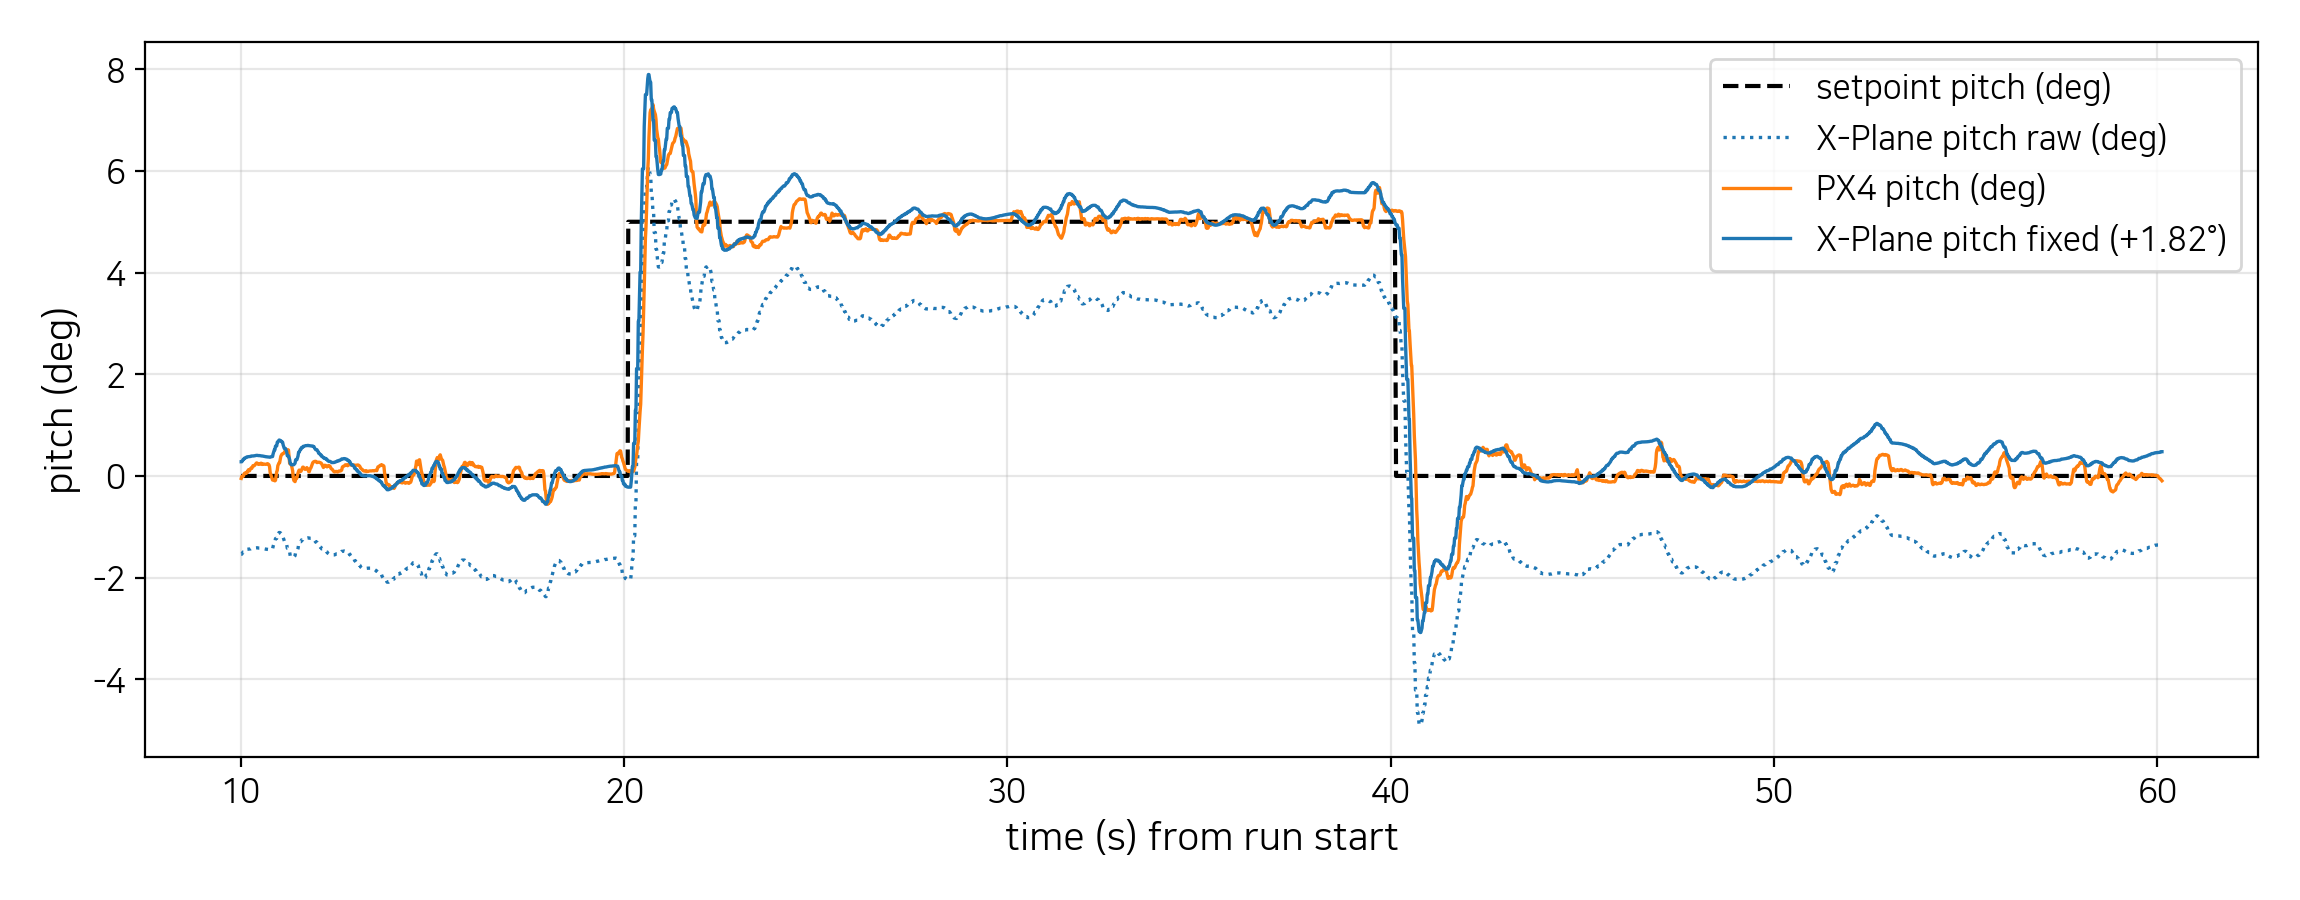
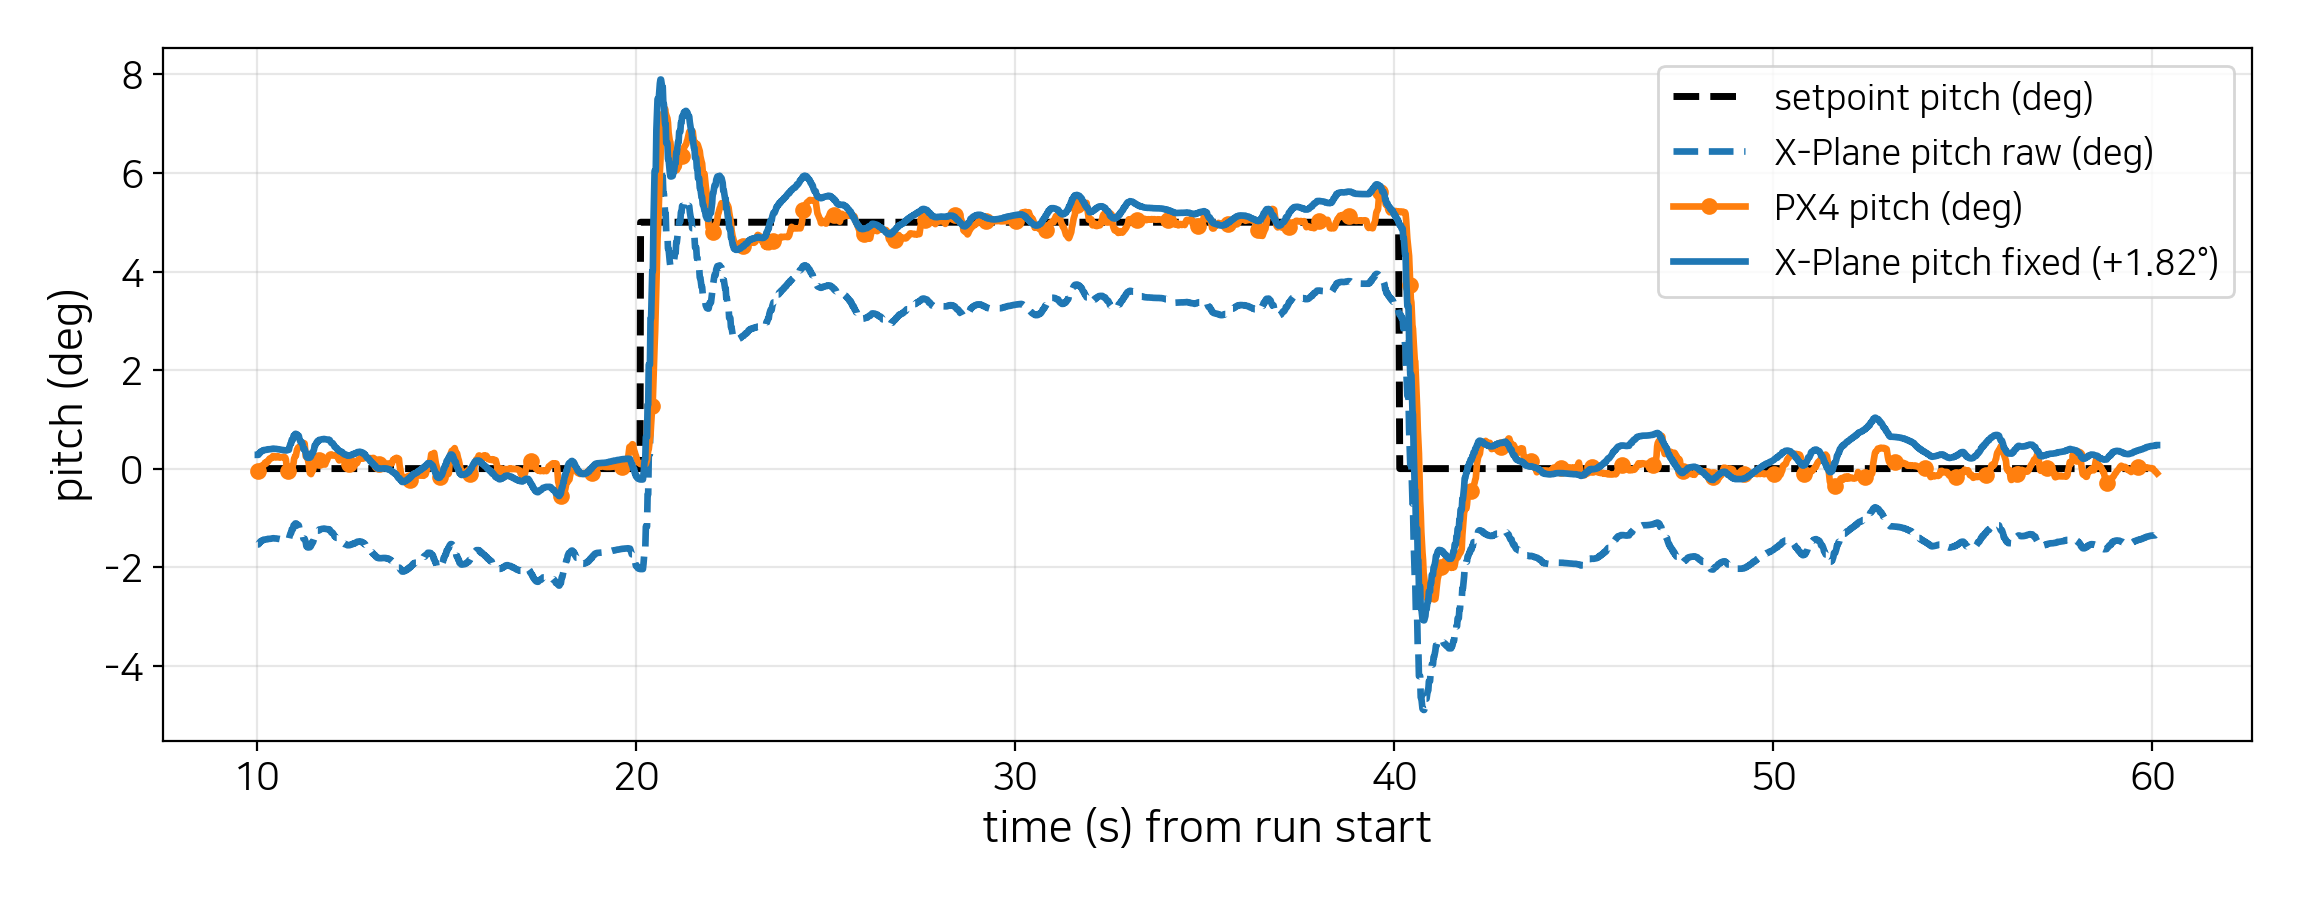
reinforce readability

Changed region(s): [[0.0, 0.0311, 0.9878, 0.9644], [0.7717, 0.5911, 0.8026, 0.6222], [0.7409, 0.6222, 0.7717, 0.6533]]

diff --git a/presentation/Fig_Gen.py b/presentation/Fig_Gen.py
@@ -62,12 +62,12 @@ def _mpl():
         "font.family": "sans-serif",
         "font.sans-serif": [FONT_NAME, "NanumSquare", "DejaVu Sans"],
         "axes.unicode_minus": False,
-        "font.size": 14,
-        "axes.labelsize": 14,
-        "axes.titlesize": 14,
-        "xtick.labelsize": 12,
-        "ytick.labelsize": 12,
-        "legend.fontsize": 12,
+        "font.size": 16,
+        "axes.labelsize": 16,
+        "axes.titlesize": 16,
+        "xtick.labelsize": 14,
+        "ytick.labelsize": 14,
+        "legend.fontsize": 13,
         "figure.dpi": DPI,
     })
     return plt
@@ -88,11 +88,12 @@ def fig2_pitch_response(run: RunData) -> Path:
         [_to_float(r.get("sp_pitch_deg")) for r in run.tick_rows], dtype=float
     )
     if np.any(np.isfinite(sp)):
-        ax.plot(t[m], sp[m], "k--", lw=1.5, label="setpoint pitch (deg)")
+        ax.plot(t[m], sp[m], "k--", lw=2.5, label="setpoint pitch (deg)")
 
-    ax.plot(t[m], run.xp_pitch[m], color="tab:blue", lw=1.2, ls=":",
+    ax.plot(t[m], run.xp_pitch[m], color="tab:blue", lw=2.4, ls="--",
             label="X-Plane pitch raw (deg)")
-    ax.plot(t[m], run.px4_pitch[m], color="tab:orange", lw=1.2,
+    ax.plot(t[m], run.px4_pitch[m], color="tab:orange", lw=2.4,
+            marker="o", markevery=40, markersize=5,
             label="PX4 pitch (deg)")
 
     pb = run.mount_bias_pitch_deg
@@ -100,7 +101,7 @@ def fig2_pitch_response(run: RunData) -> Path:
         ax.plot(
             t[m],
             _wrap_deg(run.xp_pitch + pb)[m],
-            color="tab:blue", lw=1.2,
+            color="tab:blue", lw=2.4, ls="-",
             label=f"X-Plane pitch fixed ({pb:+.2f}\u00b0)",
         )
 
@@ -124,16 +125,17 @@ def fig3_pitch_error(run: RunData) -> Path:
     m = run.analysis_mask
 
     err_raw = _wrap_deg(run.px4_pitch - run.xp_pitch)
-    ax.plot(t[m], err_raw[m], color="tab:red", lw=1.2,
+    ax.plot(t[m], err_raw[m], color="tab:red", lw=2.4,
             label="raw error (deg)")
 
     pb = run.mount_bias_pitch_deg
     if np.isfinite(pb):
         err_bc = _wrap_deg((run.px4_pitch - pb) - run.xp_pitch)
-        ax.plot(t[m], err_bc[m], color="tab:green", lw=1.2,
+        ax.plot(t[m], err_bc[m], color="tab:green", lw=2.4, ls="--",
+                marker="s", markevery=35, markersize=4,
                 label="bias-corrected (deg)")
 
-    ax.axhline(0.0, color="k", lw=0.8, alpha=0.5)
+    ax.axhline(0.0, color="k", lw=1.2, alpha=0.5)
     ax.set_xlabel("time (s) from run start")
     ax.set_ylabel("error (deg)")
     ax.grid(True, alpha=0.3)
@@ -160,9 +162,9 @@ def fig4_mounting_bias_timeseries(pref: RunData, hero: RunData) -> Path:
         bias_ts = _wrap_deg(run.px4_pitch - run.cmd_pitch)
         pb = run.mount_bias_pitch_deg
         bias_lbl = f"PX4 - cmd pitch (mean {pb:+.2f}\u00b0)" if np.isfinite(pb) else "PX4 - cmd pitch"
-        ax.plot(t[m], bias_ts[m], lw=1.1, color="tab:purple", label=bias_lbl)
+        ax.plot(t[m], bias_ts[m], lw=2.2, color="tab:purple", label=bias_lbl)
         if np.isfinite(pb):
-            ax.axhline(pb, color="k", lw=1.0, alpha=0.35)
+            ax.axhline(pb, color="k", lw=1.4, alpha=0.4, ls="--")
         ax.set_ylabel("deg")
         ax.grid(True, alpha=0.3)
         ax.set_title(subtitle)
@@ -192,7 +194,7 @@ def fig5_latency(
     bin_edges = np.arange(t_an.min(), t_an.max() + BIN_S, BIN_S)
     bin_centers = 0.5 * (bin_edges[:-1] + bin_edges[1:])
 
-    def _band(ax, t_sig, y_sig, bins, centers, color, label):
+    def _band(ax, t_sig, y_sig, bins, centers, color, label, linestyle="-"):
         """Plot mean line + min/max shaded band per time bin."""
         idx = np.digitize(t_sig, bins) - 1
         idx = np.clip(idx, 0, len(centers) - 1)
@@ -200,14 +202,14 @@ def fig5_latency(
         mins = np.array([np.nanmin(y_sig[idx == i]) if np.any(idx == i) else np.nan for i in range(len(centers))])
         maxs = np.array([np.nanmax(y_sig[idx == i]) if np.any(idx == i) else np.nan for i in range(len(centers))])
         valid = np.isfinite(means)
-        ax.plot(centers[valid], means[valid], lw=1.5, color=color, label=label)
+        ax.plot(centers[valid], means[valid], lw=2.4, ls=linestyle, color=color, label=label)
         ax.fill_between(centers[valid], mins[valid], maxs[valid],
                         color=color, alpha=0.18)
 
     _band(ax_a, t_an, run_hero.xp_age_ms[m],
-          bin_edges, bin_centers, "tab:blue", "X-Plane sample age")
+          bin_edges, bin_centers, "tab:blue", "X-Plane sample age", "-")
     _band(ax_a, t_an, run_hero.px4_age_ms[m],
-          bin_edges, bin_centers, "tab:orange", "PX4 sample age")
+          bin_edges, bin_centers, "tab:orange", "PX4 sample age", "--")
 
     if run_hero.ack_t_s.size > 0:
         ack_mask = (np.isfinite(run_hero.ack_t_s)
@@ -217,10 +219,11 @@ def fig5_latency(
         ack_edges = np.arange(ack_t.min(), ack_t.max() + BIN_S, BIN_S)
         ack_centers = 0.5 * (ack_edges[:-1] + ack_edges[1:])
         _band(ax_a, ack_t, ack_y,
-              ack_edges, ack_centers, "tab:green", "Serial RTT")
+              ack_edges, ack_centers, "tab:green", "Serial RTT", "-.")
 
     ax_a.set_xlabel("time (s) from run start")
     ax_a.set_ylabel("ms")
+    ax_a.set_ylim(0, 80)
     ax_a.grid(True, alpha=0.25)
     ax_a.legend(loc="upper right")
     fig_a.tight_layout()
@@ -249,8 +252,17 @@ def fig5_latency(
     fig_b, ax_b = plt.subplots(1, 1, figsize=(FIG5B_W, 3.8))
     data = [xp_age_all, px_age_all, serial_rtt_all]
     labels = ["X-Plane\nsample age", "PX4\nsample age", "Serial\nRTT"]
-    ax_b.boxplot(data, tick_labels=labels, showfliers=False)
+    ax_b.boxplot(
+        data,
+        tick_labels=labels,
+        showfliers=False,
+        boxprops={"linewidth": 2.0},
+        whiskerprops={"linewidth": 2.0},
+        capprops={"linewidth": 2.0},
+        medianprops={"linewidth": 2.2},
+    )
     ax_b.set_ylabel("ms")
+    ax_b.set_ylim(0, 80)
     ax_b.grid(True, axis="y", alpha=0.25)
     fig_b.tight_layout()
 
